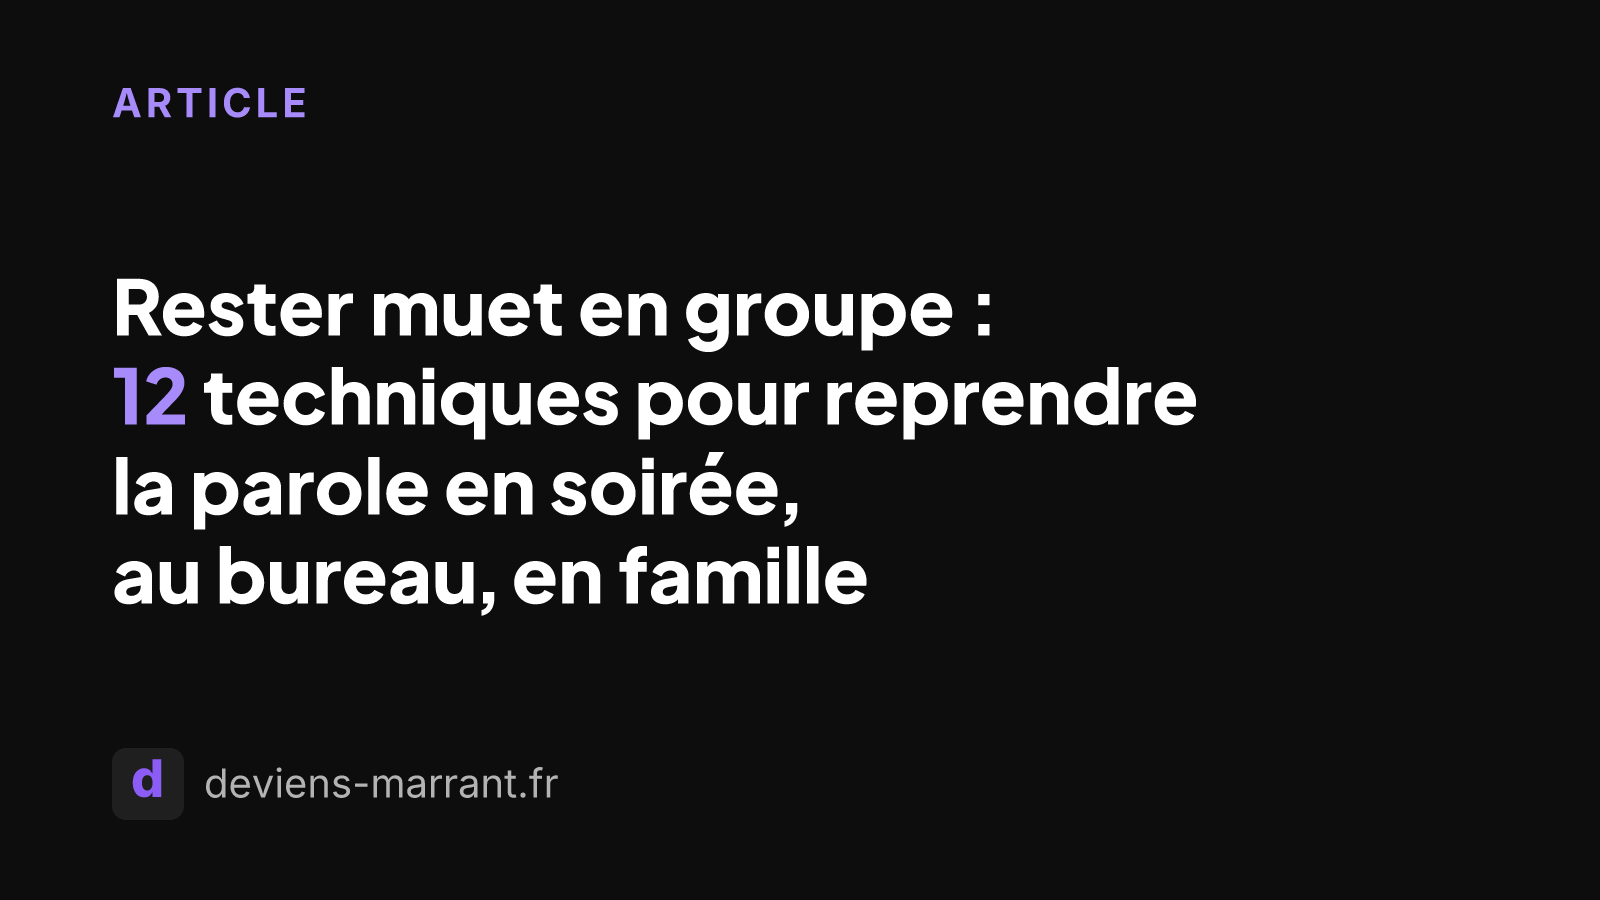
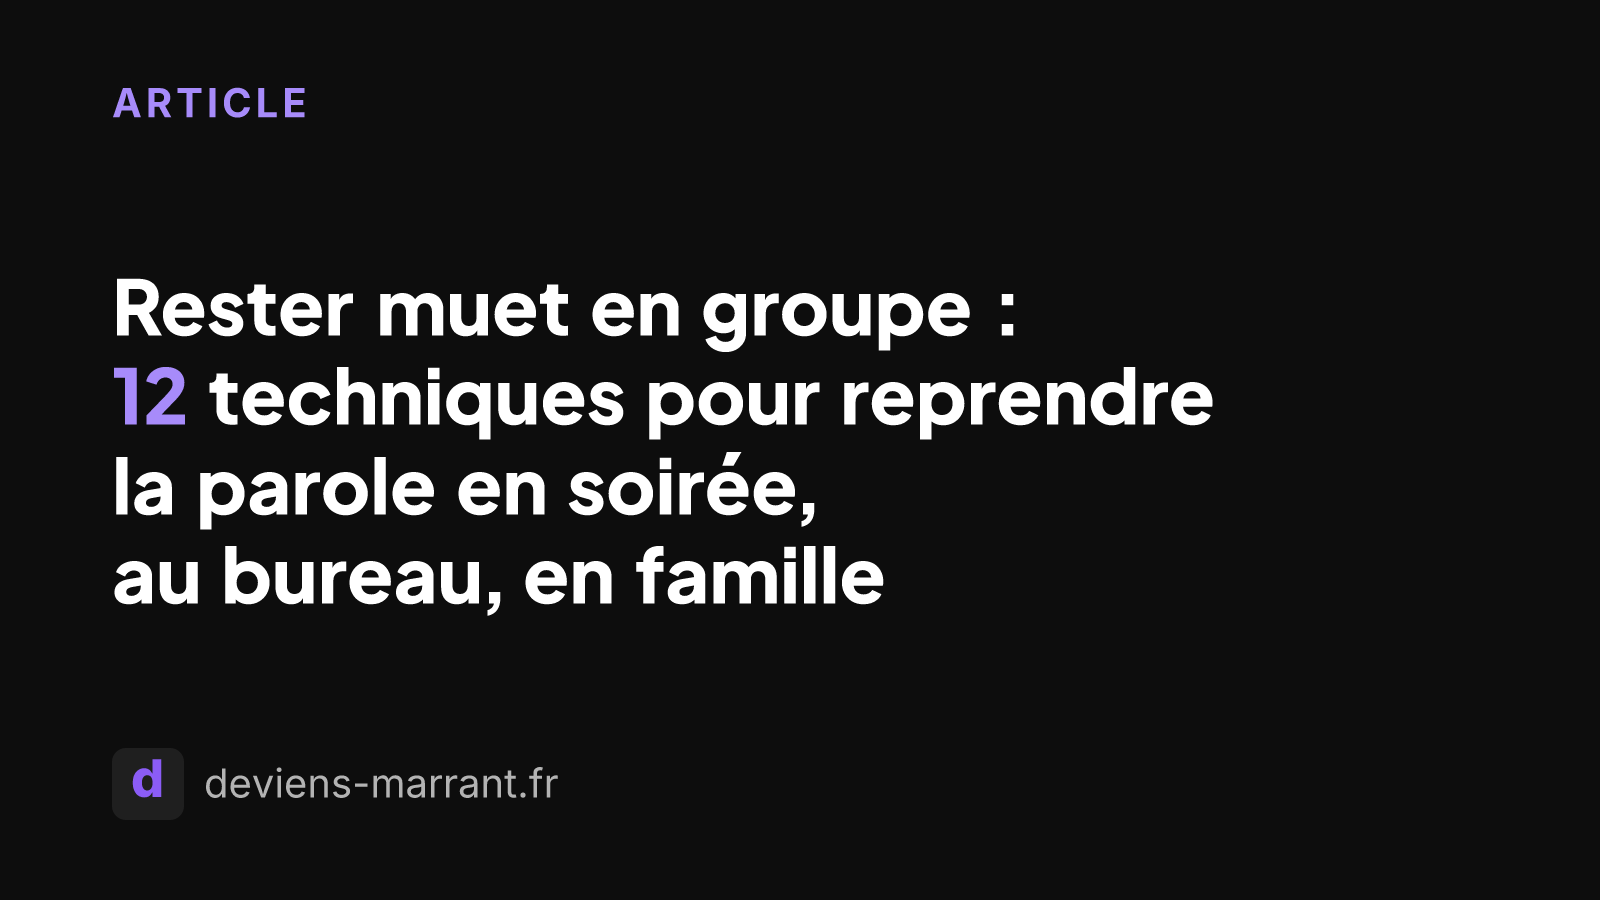
s15 : réglages finaux des cartes v4 (colonne fixe, espaces entre mots, coupe ig3, Halloween) et test Buffer des carrousels
- D1 : colonne de texte fixe x = 144 pour l'amorce et la chute des vannes citées (COLONNE_CITATION), « suspendu à gauche
- D2 : espace entre mots +0,06 em (ESPACE_MOTS), comptée dans la mesure des lignes
- ig3-anniv-de-lea-1 : lignes imposées par \n (coupe du reviewer), corps réduit à 72 px pour tenir
- Halloween 30/10 rendu (2 cartes, légende 60) ; légendes relais et Halloween contrôlées
- Buffer : brouillons carrousel Instagram à 2 et 4 images acceptés (draft, type post), supprimés, relecture NOT_FOUND
- v4 re-rendu (index.md, alt.json), 4 tests ajoutés

Claude-Session: https://claude.ai/code/session_018LhMLAUcg6rWocuejGrCgR

Changed region(s): [[0.0938, 0.3111, 0.7812, 0.6844]]

diff --git a/apps/web/src/lib/social/templates/cartes-piste-a.tsx b/apps/web/src/lib/social/templates/cartes-piste-a.tsx
@@ -10,7 +10,7 @@ import {
   type FormatCarte,
 } from "./carte-marque";
 import { typo, NBSP, NNBSP } from "../typo";
-import { mettreEnLignes, affichage } from "../mise-en-lignes";
+import { mettreEnLignes, affichage, ESPACE_MOTS } from "../mise-en-lignes";
 import { largeurTexte } from "../mesure-texte";
 
 // ───────────────────────────────────────────────────────────────────
@@ -38,6 +38,12 @@ const LIGNES_AMORCE_MAX = 4;
 export const COULEUR_GUILLEMETS: Record<FondCarte, string> = { sombre: "#A78BFA", aplat: "#DDD6FE" };
 /** Bord gauche minimal du « suspendu (hors découpe 3:4 de 34 px). */
 export const MARGE_GUILLEMET = 48;
+/**
+ * Colonne de texte des vannes citées, fixe quel que soit le corps
+ * (notations cycle 4, D1) : amorce et chute partent du même x, le «
+ * suspendu se place à gauche (x = 144 − sa largeur, ≥ 48 px).
+ */
+export const COLONNE_CITATION: Partial<Record<FormatCarte, number>> = { instagram: 144 };
 /** Écart minimal entre un titre de couverture et le pied (notation @reviewer cycle 3). */
 export const ECART_TITRE_PIED = 64;
 const INTERLIGNE = 1.12;
@@ -83,12 +89,14 @@ export const APPROCHE: Record<string, { avant: number; apres: number }> = {
   ",": { avant: -0.06, apres: -0.06 },
   "…": { avant: -0.05, apres: -0.03 },
   "’": { avant: -0.05, apres: -0.05 },
+  // Espace entre mots élargie (D2, cycle 4), comptée par mise-en-lignes.
+  " ": { avant: 0, apres: ESPACE_MOTS },
 };
 
-/** Découpe une ligne en segments : texte courant, ponctuation rapprochée, trait d'union en Inter. */
+/** Découpe une ligne en segments : texte courant, ponctuation rapprochée, espace élargie, trait d'union en Inter. */
 export function segmentsLigne(ligne: string): Array<{ texte: string; avant: number; apres: number; police?: string }> {
   return ligne
-    .split(/([.,…’-])/)
+    .split(/([.,…’ -])/)
     .filter(Boolean)
     .map((t) => ({
       texte: t,
@@ -170,7 +178,8 @@ export function composition({ textes, taille, format = "instagram", poids = 800,
   const f = FORMATS[format];
   const ouvrant = `«${affichage(NNBSP)}`;
   const suspendu = citation ? largeurTexte(ouvrant, FONT_TITRE, poids, taille) : 0;
-  const decalage = citation ? Math.max(0, MARGE_GUILLEMET + Math.ceil(suspendu) - f.padX) : 0;
+  const colonne = Math.max(COLONNE_CITATION[format] ?? 0, MARGE_GUILLEMET + Math.ceil(suspendu));
+  const decalage = citation ? Math.max(0, colonne - f.padX) : 0;
   const largeur = largeurUtile(format) - decalage;
   const src = citation ? textes.map((t, i) => texteCite(t, i === textes.length - 1)) : textes.map((t) => typo(t));
   let c = composerBloc(src, taille, poids, largeur);

diff --git a/apps/web/src/lib/social/mise-en-lignes.ts b/apps/web/src/lib/social/mise-en-lignes.ts
@@ -20,6 +20,12 @@ const NNBSP = " ";
 const FINE = " ";
 /** Marge de prudence : la mesure ignore le crénage et l'arrondi de satori. */
 const MARGE = 0.97;
+/**
+ * Espace entre mots ajoutée au rendu (em) : Plus Jakarta 800 ferme
+ * l'espace devant « j » et « à » (notations cycle 4, D2). Comptée dans
+ * la mesure, appliquée par segmentsLigne (cartes-piste-a.tsx).
+ */
+export const ESPACE_MOTS = 0.06;
 
 export interface Police {
   famille: string;
@@ -125,6 +131,22 @@ function resoudre(blocs: string[], larg: number[], esp: number, max: number, nbL
  * possible au-dessus du plancher.
  */
 export function mettreEnLignes(texte: string, police: Police, corps: number, largeur: number): Lignes {
+  // Lignes imposées (« \n », coupe éditoriale, @reviewer cycle 4) : une
+  // partie = une ligne, corps réduit jusqu'à ce que chacune tienne (même
+  // plancher que les autres réductions). Au-delà : parties composées seules.
+  const parties = texte.split("\n").map((p) => p.trim()).filter(Boolean);
+  if (parties.length > 1) {
+    const plancherImpose = Math.max(PLANCHER_CORPS, Math.round(corps * 0.7));
+    for (let c = corps; c >= plancherImpose; c -= 2) {
+      const essais = parties.map((p) => composer(p, police, c, largeur));
+      if (essais.every((e) => e.lignes.length === 1 && e.corps === c && e.defauts === 0)) {
+        return { lignes: essais.map((e) => e.lignes[0]), corps: c };
+      }
+    }
+    const c = Math.min(...parties.map((p) => mettreEnLignes(p, police, corps, largeur).corps));
+    const res = parties.map((p) => mettreEnLignes(p, police, c, largeur));
+    return { lignes: res.flatMap((r) => r.lignes), corps: Math.min(...res.map((r) => r.corps)) };
+  }
   // Si un mot seul est inévitable au corps nominal, on descend jusqu'à
   // -30 % pour trouver une coupe sans défaut avant de l'accepter.
   const nominal = composer(texte, police, corps, largeur);
@@ -140,7 +162,10 @@ export function mettreEnLignes(texte: string, police: Police, corps: number, lar
 function composer(texte: string, police: Police, corps: number, largeur: number): Lignes & { defauts: number } {
   const max = largeur * MARGE;
   let blocs = texte.trim().split(/ +/).filter(Boolean);
-  const mesure = (t: string, c: number) => largeurTexte(affichage(t), police.famille, police.poids, c);
+  const mesure = (t: string, c: number) => {
+    const a = affichage(t);
+    return largeurTexte(a, police.famille, police.poids, c) + (a.split(" ").length - 1) * ESPACE_MOTS * c;
+  };
   let c = corps;
   while (c > PLANCHER_CORPS && blocs.some((b) => mesure(b, c) > max)) c -= 2;
   c = Math.max(PLANCHER_CORPS, c);

diff --git a/apps/web/src/__tests__/lib/social/cartes-piste-a.test.tsx b/apps/web/src/__tests__/lib/social/cartes-piste-a.test.tsx
@@ -28,6 +28,7 @@ import {
   lignesTitreMax,
   COULEUR_GUILLEMETS,
   MARGE_GUILLEMET,
+  COLONNE_CITATION,
   TAILLES,
 } from "@/lib/social/templates/cartes-piste-a";
 import { FORMATS } from "@/lib/social/templates/carte-marque";
@@ -263,6 +264,32 @@ describe("cycle 4 : R6, décryptage, relais, légendes, couvertures", () => {
       expect(derniere[derniere.length - 1]).toMatch(/trouvé\. »$/);
     }
     expect(texteCite("Il s'appelait « Anniv de Léa ». Léa, c'est moi.", true)).toMatch(/“Anniv\sde\sLéa”.*moi\.\u202F»$/);
+  });
+
+  it("D1 cycle 4 : colonne de texte fixe à 144 px pour l'amorce et la chute, quel que soit le corps", () => {
+    for (const [taille, fond] of [[80, "sombre"], [88, "sombre"], [100, "aplat"]] as const) {
+      const c = composition({ textes: [ig2.chute[0]], taille, citation: fond });
+      expect(FORMATS.instagram.padX + c.decalage).toBe(COLONNE_CITATION.instagram);
+    }
+    // Cartes 3 et 4, surtitres : colonne du gabarit (96).
+    expect(composition({ textes: ["Pourquoi ça fait rire : test."], taille: 64 }).decalage).toBe(0);
+  });
+
+  it("D2 cycle 4 : espace entre mots élargie (segment dédié), texte inchangé", () => {
+    const s = segmentsLigne("Au jeu de mimes");
+    const espaces = s.filter((x) => x.texte === " ");
+    expect(espaces).toHaveLength(3);
+    expect(espaces.every((x) => x.apres > 0)).toBe(true);
+    expect(s.map((x) => x.texte).join("")).toBe("Au jeu de mimes");
+  });
+
+  it("lignes imposées (« \\n ») : coupe éditoriale respectée, alt sans retour à la ligne", () => {
+    const [a] = carrouselVanne({
+      amorce: "J'ai découvert que\nmes potes avaient\nun groupe sans moi.\nJ'ai boudé trois jours.",
+      chute: ["Il s'appelait “Anniv de Léa”. Léa, c'est moi."],
+    });
+    expect(texte(a.element)).toContain("J’ai boudé trois jours. »");
+    expect(a.alt).toBe(`«${NNBSP}J'ai découvert que mes potes avaient un groupe sans moi. J'ai boudé trois jours.${NNBSP}»`);
   });
 
   it("décryptage : 4 cartes, « Glisse » en carte 1, cartes 3 et 4 sans guillemets ni bouton", () => {

diff --git a/apps/web/scripts/render-visuels-piste-a.ts b/apps/web/scripts/render-visuels-piste-a.ts
@@ -55,6 +55,8 @@ const LEGENDES: Record<string, string> = {
   "ig1-tuteur": "À envoyer à ton tuteur de stage. deviens-marrant.fr",
   "ig2-mimes": "À envoyer à qui a un tour de table demain. Les 4 autres exemples : lien en bio.",
   "ig3-anniv-de-lea": "À envoyer à celui qui n'est jamais sûr d'être invité. deviens-marrant.fr",
+  "ig-relais-blagues-ia": "À envoyer à qui t'a fait lire son roman. Les 5 autres vannes : lien en bio.",
+  "ig-halloween-date": "À envoyer à qui a un date pour Halloween. deviens-marrant.fr",
 };
 
 const CAS: Array<{ prefixe: string; slides: Slide[] }> = [
@@ -78,7 +80,8 @@ const CAS: Array<{ prefixe: string; slides: Slide[] }> = [
   {
     prefixe: "ig3-anniv-de-lea",
     slides: carrouselDecryptage({
-      amorce: "J'ai découvert que mes potes avaient un groupe sans moi. J'ai boudé trois jours.",
+      // Lignes imposées (@reviewer cycle 4) : « sans moi. » groupé, « J'ai boudé trois jours. » seul sur sa ligne.
+      amorce: "J'ai découvert que\nmes potes avaient\nun groupe sans moi.\nJ'ai boudé trois jours.",
       chute: ["Il s'appelait “Anniv de Léa”. Léa, c'est moi."],
       mecanisme:
         "Pourquoi ça fait rire : celui qui boude trois jours est l'invité d'honneur, et la preuve se trouvait dans le titre du groupe.",
@@ -93,6 +96,14 @@ const CAS: Array<{ prefixe: string; slides: Slide[] }> = [
     slides: carrouselRelais({
       amorce: "J'ai demandé à l'IA un avis honnête sur mon manuscrit. Elle a répondu « passionnant ».",
       chute: ["C'est le mot de ma mère. Je cherche quelqu'un qui me déteste."],
+    }),
+  },
+  // Halloween, ven. 30/10 : IG cs14jk1bc86d3502a2cef27b, carte vanne sans lien (v5 §8)
+  {
+    prefixe: "ig-halloween-date",
+    slides: carrouselVanne({
+      amorce: "Pour Halloween, j'ai proposé à mon date qu'on se déguise en couple.",
+      chute: ["Elle a dit “ne va pas trop vite”."],
     }),
   },
   // Couverture d'article LinkedIn (option : LinkedIn est en texte seul par défaut, v5 §8)

diff --git a/apps/web/src/lib/social/carrousel-piste-a.ts b/apps/web/src/lib/social/carrousel-piste-a.ts
@@ -66,9 +66,14 @@ export function defautsLegende(legende: string): string[] {
   return d;
 }
 
+/** Texte sans coupe forcée (« \n » de mise en lignes), pour le texte alternatif. */
+function sansCoupe(texte: string): string {
+  return texte.replace(/\s*\n\s*/g, " ").trim();
+}
+
 /** Ligne de vanne citée pour le texte alternatif (R6) : « … », “ ” imbriqués. */
 export function citer(ligne: string): string {
-  const t = ligne.trim().replace(/«\s*/g, "“").replace(/\s*»/g, "”");
+  const t = sansCoupe(ligne).replace(/«\s*/g, "“").replace(/\s*»/g, "”");
   return `«${NNBSP}${t}${NNBSP}»`;
 }
 
@@ -80,7 +85,7 @@ function slide(format: FormatCarte, element: ReactElement, alt: string): Slide {
 }
 
 function joindre(...parts: string[]): string {
-  return parts.map((p) => p.trim()).filter(Boolean).join(" ");
+  return parts.map(sansCoupe).filter(Boolean).join(" ");
 }
 
 /** « Blagues d'Halloween : 8 vannes pour… » → { nombre: 8, nom: "vannes" }. */

diff --git a/apps/web/src/__tests__/lib/social/mise-en-lignes.test.ts b/apps/web/src/__tests__/lib/social/mise-en-lignes.test.ts
@@ -93,4 +93,12 @@ describe("mettreEnLignes", () => {
     const r = mettreEnLignes("x".repeat(200), police, 100, 888);
     expect(r.corps).toBe(PLANCHER_CORPS);
   });
+
+  it("lignes imposées par « \\n » : une partie = une ligne, corps réduit pour tenir", () => {
+    const r = mettreEnLignes(typo("J'ai découvert que\nmes potes avaient\nun groupe sans moi.\nJ'ai boudé trois jours."), police, 88, 840);
+    expect(r.lignes).toHaveLength(4);
+    expect(r.lignes[3]).toBe("J’ai boudé trois jours.");
+    expect(r.corps).toBeLessThan(88);
+    expect(r.corps).toBeGreaterThanOrEqual(Math.round(88 * 0.7));
+  });
 });

diff --git a/docs/social/visuels-s15/v4/index.md b/docs/social/visuels-s15/v4/index.md
@@ -1,4 +1,4 @@
-# Cartes sociales « piste A », v4 (s15, 05/10/2026, cycle 4 des visuels)
+# Cartes sociales « piste A », v4 (s15, 05/10/2026, réglages finaux après les notations du cycle 4)
 
 Rendu réel `next/og` (même moteur que la production), Plus Jakarta Sans 800/700 + Inter. Script : `cd apps/web && npx tsx --tsconfig scripts/tsconfig.scripts.json scripts/render-visuels-piste-a.ts`. Contenu figé : `strategie-relance-v5.md` §8 et gagnants de `duels-resultat-cycle5.md` (textes de `duels-aveugle-cycle5.md`). Chaque PNG a été ouvert et corrigé. Rien n'est publié. Textes alternatifs : `alt.json`.
 
@@ -13,7 +13,7 @@ Rendu réel `next/og` (même moteur que la production), Plus Jakarta Sans 800/70
 | | `ig1-tuteur-2.png` | « Ils sont en page 2. Le rapport commence page 3. » | 1080×1350, aplat | |
 | IG2 mimes (duel : A), lun. 12/10, relais `se-presenter-avec-humour` | `ig2-mimes-1.png` | « Au jeu de mimes, ma carte disait “la timidité”. » | 1080×1350, noir | À envoyer à qui a un tour de table demain. Les 4 autres exemples : lien en bio. (79, sans pied) |
 | | `ig2-mimes-2.png` | « J'avais à peine bougé qu'ils avaient trouvé. » | 1080×1350, aplat | |
-| IG3 Anniv de Léa (duel : A), mer. 14/10, décryptage | `ig3-anniv-de-lea-1.png` | « J'ai découvert que mes potes avaient un groupe sans moi. J'ai boudé trois jours. » | 1080×1350, noir, « Glisse → » | À envoyer à celui qui n'est jamais sûr d'être invité. deviens-marrant.fr (72) |
+| IG3 Anniv de Léa (duel : A), mer. 14/10, décryptage | `ig3-anniv-de-lea-1.png` | « J'ai découvert que / mes potes avaient / un groupe sans moi. / J'ai boudé trois jours. » (lignes imposées) | 1080×1350, noir, « Glisse → », amorce 72 px | À envoyer à celui qui n'est jamais sûr d'être invité. deviens-marrant.fr (72) |
 | | `ig3-anniv-de-lea-2.png` | « Il s'appelait “Anniv de Léa”. Léa, c'est moi. » | 1080×1350, aplat | |
 | | `ig3-anniv-de-lea-3.png` | Pourquoi ça fait rire : celui qui boude trois jours est l'invité d'honneur, et la preuve se trouvait dans le titre du groupe. | 1080×1350, noir, surtitre intégré lilas | |
 | | `ig3-anniv-de-lea-4.png` | À toi de jouer : repense à un moment où tu t'es cru mis de côté, puis cherche le détail qui prouvait le contraire. Le quiz est dans le lien de la bio. | 1080×1350, aplat, sans bouton | |
@@ -27,6 +27,8 @@ Rendu réel `next/og` (même moteur que la production), Plus Jakarta Sans 800/70
 |---|---|---|---|---|
 | Relais Instagram, lun. 26/10, `blagues-sur-l-ia-assistants-vocaux`, n°4 `cs14jke6736001250d3a940d` | `ig-relais-blagues-ia-1.png` | « J'ai demandé à l'IA un avis honnête sur mon manuscrit. Elle a répondu “passionnant”. » | 1080×1350, noir, « Glisse → » | « À envoyer à qui t’a fait lire son roman. Les 5 autres vannes : lien en bio. » (75) |
 | | `ig-relais-blagues-ia-2.png` | « C'est le mot de ma mère. Je cherche quelqu'un qui me déteste. » | 1080×1350, aplat | |
+| Halloween, ven. 30/10, IG `cs14jk1bc86d3502a2cef27b` (sans lien) | `ig-halloween-date-1.png` | « Pour Halloween, j'ai proposé à mon date qu'on se déguise en couple. » | 1080×1350, noir, « Glisse → » | À envoyer à qui a un date pour Halloween. deviens-marrant.fr (60) |
+| | `ig-halloween-date-2.png` | « Elle a dit “ne va pas trop vite”. » | 1080×1350, aplat | |
 | Couverture d'article LinkedIn (option du relais L3) | `linkedin-article-se-presenter.png` | Se présenter avec humour : 5 accroches qui passent | 1200×627, sans étiquette | |
 
 ## Actions 10/10 appliquées (notations cycle 3)
@@ -40,7 +42,21 @@ Rendu réel `next/og` (même moteur que la production), Plus Jakarta Sans 800/70
 - **LinkedIn** : bouton « Lien dans le post », aucun « Glisse » ni pagination (`charge/ig-conseil-3.png`, rendu LinkedIn).
 - **Amorce** à 88 px si elle tient en 4 lignes (sinon 80), bloc centré à 40 % de la hauteur.
 
+## Réglages finaux (notations cycle 4 @design et @reviewer)
+
+- **D1, colonne fixe** : amorce et chute des 10 cartes vanne partent de x = 144 (`COLONNE_CITATION`), quel que soit le corps ; « suspendu à gauche, toujours à 48 px ou plus du bord. Mesuré au pixel : bord des glyphes entre 146 et 151 px sur les 10 cartes (approche propre à chaque lettre), 96 à 98 px sur les cartes 3 et 4. Plus de saut entre carte 1 et carte 2.
+- **D2, espaces entre mots** : +0,06 em par espace (`ESPACE_MOTS`), comptés dans la mesure des lignes ; relu au zoom : « Au jeu », « trois jours », « quiz est », « demandé à » sont bien ouverts.
+- **Coupe `ig3-anniv-de-lea-1`** : lignes imposées par `\n` (une partie = une ligne, corps réduit jusqu'à ce que chacune tienne, plancher -30 %). La coupe du reviewer ne tient pas à 88 px (« J'ai boudé trois jours. » mesure 1 017 px à 88 px, pour 840 px utiles) : rendue à 72 px.
+- **Halloween 30/10** rendu (2 cartes, légende de 60 caractères contrôlée). Les légendes du relais et d'Halloween passent aussi par `defautsLegende`.
+- Effet de bord visible : la colonne à 144 réduit la largeur utile ; `ig-relais-blagues-ia-2` passe sur 5 lignes (« Je cherche / quelqu'un qui / me déteste. »), sans mot seul.
+
+## Test Buffer des carrousels Instagram (05/10/2026)
+
+Brouillons réels (`saveToDraft: true`, échéance fictive au 01/06/2027, jamais programmés) sur le canal Instagram, avec les PNG v4 servis par raw.githubusercontent (commit `86521ff`, même format 1080×1350 que le rendu final) :
+- **2 images** (`ig2-mimes-1/-2`) : id `6ac3dcbaa3332ccdd882b57d`, accepté, `status: draft`, `metadata.type: post`, 2 assets `image/png` ; `deletePost` OK, relecture NOT_FOUND.
+- **4 images** (`ig3-anniv-de-lea-1..4`) : id `6ac3dcbb1e475b8bb4506a37`, accepté, `status: draft`, `metadata.type: post`, 4 assets `image/png` ; `deletePost` OK, relecture NOT_FOUND.
+
 ## Reste ouvert
 
-- Test Buffer d'un brouillon carrousel Instagram 2 et 4 images et d'un post LinkedIn multi-images (v5 §2.6) : non fait ici.
-- Légende du relais du 26/10 : fournie par @social (75 caractères), reportée ici et dans la v5 §8.
+- Post LinkedIn multi-images et document PDF 1080×1350 via Buffer : non testés (hors lot, LinkedIn est en texte seul).
+- Canal Instagram signalé déconnecté chez Buffer (`REPLIT_ACTIONS.md`) : le brouillon passe, la publication non. À reconnecter avant le 12/10.

diff --git a/REPLIT_ACTIONS.md b/REPLIT_ACTIONS.md
@@ -19,7 +19,7 @@
 > - **Alertes (D1)** : verrou « 1 e-mail par jour » posé APRÈS l'envoi accepté par Resend (`sendAdminAlert` renvoie un booléen et lit `{ error }`). Les posts à signaler gardent `alertedAt = null` jusqu'à l'envoi : aucune alerte perdue.
 > - **Relecture Buffer (D2, D4)** : pages de 100 posts avec curseur, puis lecture par identifiant des absents (25 max par passe). Supprimé chez Buffer → FAILED `introuvable` ; bloqué `scheduled`/`sending` 6 h après l'heure prévue → `non_confirme` ; fenêtre 30 jours ; note du directeur conservée ; `sentAt` illisible sans casser le lot.
 > - **Fils X interdits** : plus de découpage automatique ; un post X de plus de 270 caractères passe en FAILED « fil X interdit » (`createBufferThread` supprimé).
-> - **Carrousel Instagram** : chaque post Instagram préparé (vanne ou relais d'article) part en carrousel v3 4:5 (1 URL par slide `/api/social/image?postId=…&slide=N`, ou `imageUrls` en base), texte alternatif amorce + chute. Vérifié le 05/10 : brouillon Buffer réel (`saveToDraft`, jamais programmé) à 3 images + alt sur le canal Instagram, accepté (`type: post`, `carousel` refusé pour Instagram), id `6ac3d30ed394a1ebb7bb3853`, supprimé aussitôt (`deletePost` OK, relecture NOT_FOUND).
+> - **Carrousel Instagram** : chaque post Instagram préparé (vanne ou relais d'article) part en carrousel v3 4:5 (1 URL par slide `/api/social/image?postId=…&slide=N`, ou `imageUrls` en base), texte alternatif amorce + chute. Vérifié le 05/10 : brouillon Buffer réel (`saveToDraft`, jamais programmé) à 3 images + alt sur le canal Instagram, accepté (`type: post`, `carousel` refusé pour Instagram), id `6ac3d30ed394a1ebb7bb3853`, supprimé aussitôt (`deletePost` OK, relecture NOT_FOUND). Refait le 05/10 avec les cartes v4 : brouillons à **2 images** (`6ac3dcbaa3332ccdd882b57d`) et à **4 images** (`6ac3dcbb1e475b8bb4506a37`) acceptés (`status: draft`, `type: post`, assets `image/png`), supprimés, relecture NOT_FOUND (`docs/social/visuels-s15/v4/index.md`). Cartes v4 : colonne de texte fixe (x = 144), espace entre mots +0,06 em, lignes imposées par `\n` (`mise-en-lignes.ts`), aucune action Replit.
 > - **LinkedIn** : `prepare-social-month.ts` prépare X + Instagram + LinkedIn selon la cadence de `strategie-relance-v2.md` (`CADENCE_V2`, paramétrable pour la v3) ; LinkedIn mar./jeu. 08:15, relais d'article à angle bureau (lien UTM en 1er commentaire, colonne `cta`) sinon vanne BOULOT ; X mercredi = vanne + quiz ; Instagram mercredi = carrousel décryptage à préparer à part (avertissement).
 > - **Rapport « prévu contre publié »** : admin social (7 jours) + `/api/admin/social/report?jours=N` + section dans l'e-mail du lundi (écart = prévus échus non confirmés, doit être 0).
 > - **Visuels v3** : `docs/social/visuels-s15/v3/` (35 PNG, `index.md`, `alt.json`) ; polices `PlusJakartaSans-Bold.ttf` et `-ExtraBold.ttf` ajoutées, `Syne-*.ttf` supprimées.
